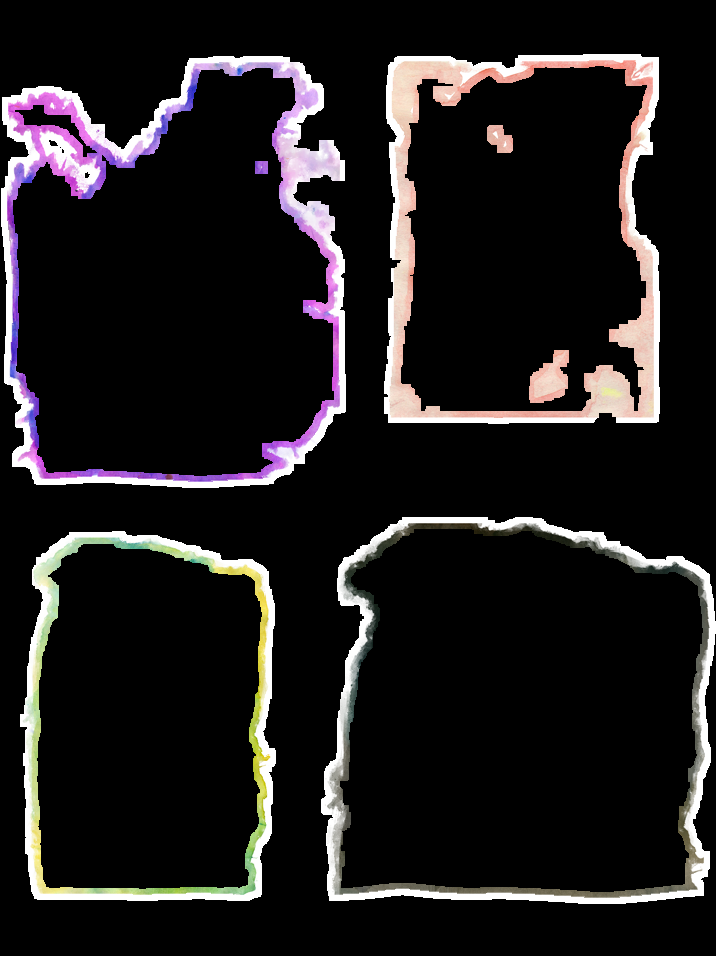
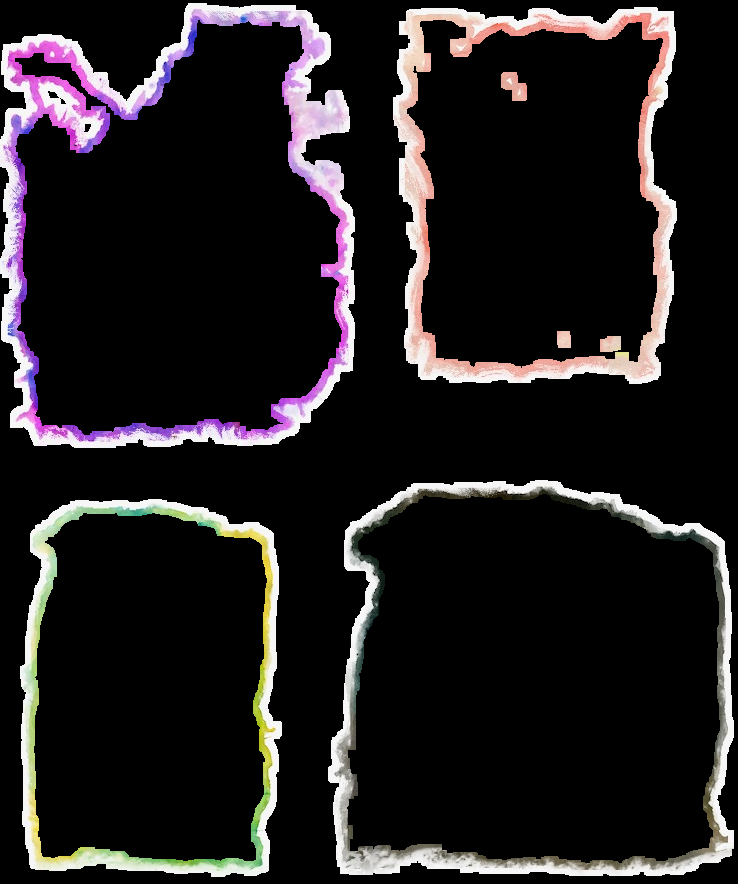
better random search

diff --git a/patchmatch.cpp b/patchmatch.cpp
@@ -5,6 +5,10 @@
 #include <omp.h>
 
 
+static const int INITIAL_RANDOM_TRIALS = 12;
+static const int RANDOM_SEARCH_TRIALS = 8;
+static const int BOUNDARY_RANDOM_SEARCH_TRIALS = 32;
+
 
 //TARGET: the frame we are stylizing
 //SOURCE: the texture we are copying pixels from
@@ -194,6 +198,35 @@ void Patchmatch::initializeNNF(const Image& target, const Image& source,
                 match.dist = patchDistance(target, x, y, source, sx, sy, patchRadius);
             }
 
+            if(isValidPatch(target, x, y, patchRadius)){
+                int randomTrials = targetIsBoundary ? BOUNDARY_RANDOM_SEARCH_TRIALS : INITIAL_RANDOM_TRIALS;
+                for(int i = 0; i < randomTrials; i++){
+                    int cx;
+                    int cy;
+                    if(targetIsBoundary && !boundaryCandidates.empty()){
+                        std::uniform_int_distribution<int> boundaryDist(0, (int)boundaryCandidates.size() - 1);
+                        int idx = boundaryCandidates[boundaryDist(localRng)];
+                        cx = idx % source.width;
+                        cy = idx / source.width;
+                    }
+                    else{
+                        cx = distX(localRng);
+                        cy = distY(localRng);
+                    }
+
+                    if(!isAllowedSourcePatch(source, sourceBoundaryMask, cx, cy, patchRadius, targetIsBoundary)){
+                        continue;
+                    }
+
+                    float cDist = patchDistance(target, x, y, source, cx, cy, patchRadius);
+                    if(cDist < match.dist){
+                        match.dist = cDist;
+                        match.u = cx;
+                        match.v = cy;
+                    }
+                }
+            }
+
             nnf[y*target.width + x] = match;
         }
     }
@@ -333,32 +366,22 @@ void Patchmatch::randomSearch(int x, int y, const Image& target, const Image& so
 
     //while rad > 1
     while(radius > 1){
-        bool foundCandidate = false;
-        int cx = sx;
-        int cy = sy;
-        //randomly sample in search radius around current best
-        // do{
-        //     cx = std::clamp(sx + (int)(distX(localRng)*((float)radius)), 0, source.width);
-        //     cy = std::clamp(sy + (int)(distY(localRng)*((float)radius)), 0, source.height);
-        // }while(!isValidPatch(source, cx, cy, patchRadius));
+        int trials = requireBoundary ? BOUNDARY_RANDOM_SEARCH_TRIALS : RANDOM_SEARCH_TRIALS;
+        for(int attempt = 0; attempt < trials; attempt++){
+            int cx = std::clamp(bestX + (int)(distX(localRng)*radius), patchRadius, source.width-1-patchRadius);
+            int cy = std::clamp(bestY + (int)(distY(localRng)*radius), patchRadius, source.height-1-patchRadius);
 
-        for(int attempt = 0; attempt < 16 && !foundCandidate; attempt++){
-            cx = std::clamp(sx + (int)(distX(localRng)*radius), patchRadius, source.width-1-patchRadius);
-            cy = std::clamp(sy + (int)(distY(localRng)*radius), patchRadius, source.height-1-patchRadius);
-            foundCandidate = isAllowedSourcePatch(source, sourceBoundaryMask, cx, cy, patchRadius, requireBoundary);
-        }
+            if(!isAllowedSourcePatch(source, sourceBoundaryMask, cx, cy, patchRadius, requireBoundary)){
+                continue;
+            }
 
-        if(!foundCandidate){
-            radius *= 0.5f;
-            continue;
-        }
-
-        //if valid, check if patchdist of new sample < best sample
-        float c_distance = patchDistance(target, x, y, source, cx, cy, patchRadius);
-        if(c_distance < bestDist){
-            bestDist = c_distance;
-            bestX = cx;
-            bestY = cy;
+            //if valid, check if patchdist of new sample < best sample
+            float c_distance = patchDistance(target, x, y, source, cx, cy, patchRadius);
+            if(c_distance < bestDist){
+                bestDist = c_distance;
+                bestX = cx;
+                bestY = cy;
+            }
         }
         //if so, set nnf[x, y] to new match
 

diff --git a/cult.cpp b/cult.cpp
@@ -79,6 +79,18 @@ static Image maskedSourceDebugImage(const Image& source, const std::vector<bool>
     return img;
 }
 
+static int effectivePatchRadius(const Image& target, const Image& source, int requestedRadius){
+    int maxRadius = std::min({
+        requestedRadius,
+        (target.width - 1) / 2,
+        (target.height - 1) / 2,
+        (source.width - 1) / 2,
+        (source.height - 1) / 2
+    });
+
+    return std::max(0, maxRadius);
+}
+
 void Cult::run(const QStringList &framePaths, const QString &texturePath) {
 
     //Make source texture image pyramid - only do this once!
@@ -224,9 +236,10 @@ Image Cult::processFrame(const Image& frame, const Image& prevOutput){
             seedNNF = &upscaled;
         }
 
+        int patchRadius = effectivePatchRadius(currentResult, cur_source, PATCH_RADIUS);
         prevNNF = Patchmatch::run_patchmatch(currentResult, cur_source, targetBoundaryMask, sourceBoundaryMask,
-                                             PATCH_RADIUS, PATCHMATCH_ITERATIONS, seedNNF);
-        output_frame = vote(currentResult, cur_source, prevNNF);
+                                             patchRadius, PATCHMATCH_ITERATIONS, seedNNF);
+        output_frame = vote(currentResult, cur_source, prevNNF, patchRadius);
         currentResult = output_frame;
 
         QString dbgPath = QString("../color-me-noisy/debug_pyramid/framepyramid_dbg_level_%1.png").arg(level);
@@ -244,25 +257,26 @@ Image Cult::patchmatch(const Image& target, const Image& source){
     //std::cout<<"Running Patchmatch"<<std::endl;
     std::vector<bool> targetBoundaryMask = Patchmatch::createEdgeMask(target);
     std::vector<bool> sourceBoundaryMask = Patchmatch::createEdgeMask(source);
+    int patchRadius = effectivePatchRadius(target, source, PATCH_RADIUS);
     NNF nnf = Patchmatch::run_patchmatch(target, source, targetBoundaryMask, sourceBoundaryMask,
-                                         PATCH_RADIUS, PATCHMATCH_ITERATIONS);
-    output_image = vote(target, source, nnf);
+                                         patchRadius, PATCHMATCH_ITERATIONS);
+    output_image = vote(target, source, nnf, patchRadius);
     //std::cout<<"Finished Patchmatch and Voting"<<std::endl;
     return output_image;
 }
 
-Image Cult::vote(const Image& target, const Image& source, NNF& nnf){
+Image Cult::vote(const Image& target, const Image& source, NNF& nnf, int patchRadius){
     Image processed_frame = target;
     processed_frame.pixels.resize(target.width * target.height);
 
     for(int y = 0; y < target.height; y++){
         for(int x = 0; x < target.width; x++){
             std::vector<RGB> candidates;
-            for(int dy = -PATCH_RADIUS; dy <= PATCH_RADIUS; dy++){
-                for(int dx = -PATCH_RADIUS; dx <= PATCH_RADIUS; dx++){
+            for(int dy = -patchRadius; dy <= patchRadius; dy++){
+                for(int dx = -patchRadius; dx <= patchRadius; dx++){
                     int px = x + dx;
                     int py = y + dy;
-                    if(!Patchmatch::isValidPatch(target, px, py, PATCH_RADIUS)) continue;
+                    if(!Patchmatch::isValidPatch(target, px, py, patchRadius)) continue;
 
                     Match match = nnf[py * target.width + px];
                     int sx = match.u - dx;
@@ -557,5 +571,4 @@ std::vector<VectorField> Cult::createVectorFields(const std::vector<Image>& fram
     return allFields;
 
 }
-
 

diff --git a/mainwindow.h b/mainwindow.h
@@ -20,8 +20,7 @@ public:
 
 private:
     QString dirpath = "../color-me-noisy/output_frames";
-    QString m_texturePath = "../color-me-noisy/textures/texture_resized.png"; //Path to image texture
-    //QString m_texturePath = "../color-me-noisy/textures/S.png"; //Path to image texture
+    QString m_texturePath = "../color-me-noisy/textures/S_feathered.jpeg"; //Path to image texture
     QString m_videoPath = "../color-me-noisy/source_videos/walker.mov";
     QStringList m_framePaths; // sorted list of image file paths
 
@@ -37,5 +36,4 @@ private:
 };
 
 #endif // MAINWINDOW_H
-
 

diff --git a/cult.h b/cult.h
@@ -39,7 +39,7 @@ private:
                   std::vector<Eigen::Vector2f>& deformedPoints);
     Image patchmatch(const Image& target, const Image& source);
 
-    Image vote(const Image& target, const Image& source, NNF& nnf);
+    Image vote(const Image& target, const Image& source, NNF& nnf, int patchRadius);
     RGB modeVote(const std::vector<RGB>& votes);
     Image extractSourceEdge(const Image& texture);
     std::vector<VectorField> createVectorFields(const std::vector<Image>& frames);
